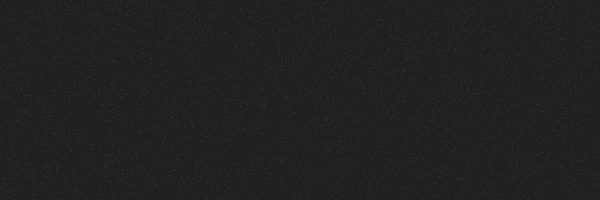
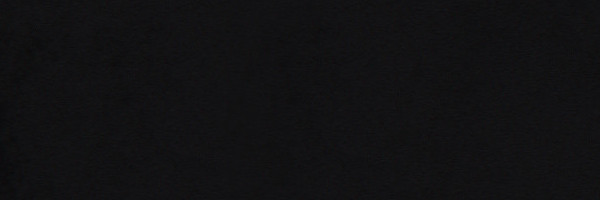
start plugin: slick-slider

diff --git a/index.html b/index.html
@@ -4,11 +4,28 @@
   <meta charset="UTF-8">
   <link rel="stylesheet" href="style.css">
   <link href="https://fonts.googleapis.com/css?family=Open+Sans" rel="stylesheet">
+  <link rel="stylesheet" type="text/css" href="//cdn.jsdelivr.net/npm/slick-carousel@1.8.1/slick/slick.css"/>
+  <link rel="stylesheet" type="text/css" href="//cdn.jsdelivr.net/npm/slick-carousel@1.8.1/slick/slick-theme.css"/>
+  <script src="https://ajax.googleapis.com/ajax/libs/jquery/3.3.1/jquery.min.js"></script>
   <title>GOT Form</title>
 </head>
 <body>
 <div class="container">
   <section class="great-house-logo-panel">
+    <div class="houses-slider">
+      <div><img src="img/arryn.png"  alt="546"></div>
+      <div><img src="img/baratheon.png" ></div>
+      <div><img src="img/bolton.png" ></div>
+      <div><img src="img/frey.png" ></div>
+      <div><img src="img/greyjoy.png" ></div>
+      <div><img src="img/lannister.png" ></div>
+      <div><img src="img/martell.png" ></div>
+      <div><img src="img/nightwatchs.png" ></div>
+      <div><img src="img/stark.png" ></div>
+      <div><img src="img/targarien.png"  alt="613"></div>
+      <div><img src="img/tully.png" > </div>
+      <div><img src="img/tyrell.png" ></div>
+    </div>
   </section>
   <section class="nav-panel">
     <form class="nav-panel__form" id ="reg-form-1" name="form_1">
@@ -75,6 +92,7 @@
     </form>
   </section>
 </div>
+<script type="text/javascript" src="//cdn.jsdelivr.net/npm/slick-carousel@1.8.1/slick/slick.min.js"></script>
 <script src="script.js"></script>
 </body>
 </html>

diff --git a/style.css b/style.css
@@ -19,12 +19,16 @@ html {
 
 .container {
   display: flex;
+  align-items: baseline;
+  justify-content: center;
 }
 
 .great-house-logo-panel {
   flex: 1;
-  background: url("img/backgroundWIC.jpeg") no-repeat 50% 50%;
-  background-size: cover;
+  align-self: center;
+  background: url("img/darknoise.png") repeat round 100%;
+  /*background: url("img/") no-repeat 50% 50%;*/
+  /*background-size: cover;*/
   width: 50vw;
   height: 100vh;
 }

diff --git a/script.js b/script.js
@@ -1,4 +1,15 @@
+'use strict'
+$(() =>{
 window.onload = () => {eventsLoader()};
+$('.houses-slider').slick({
+    arrows: true,
+    dots: true,
+    centerMode: true,
+    adaptiveHead: true,
+    slidesToShow: 1,
+    infinite: true
+});
+})
 /* CONSTANTS */
 
 const EMAIL_VALID_REGEXP = /^(\w+(-(?=\w))?\w*)@\w+\.(\w+(-(?=\w))?\w+)$/;
